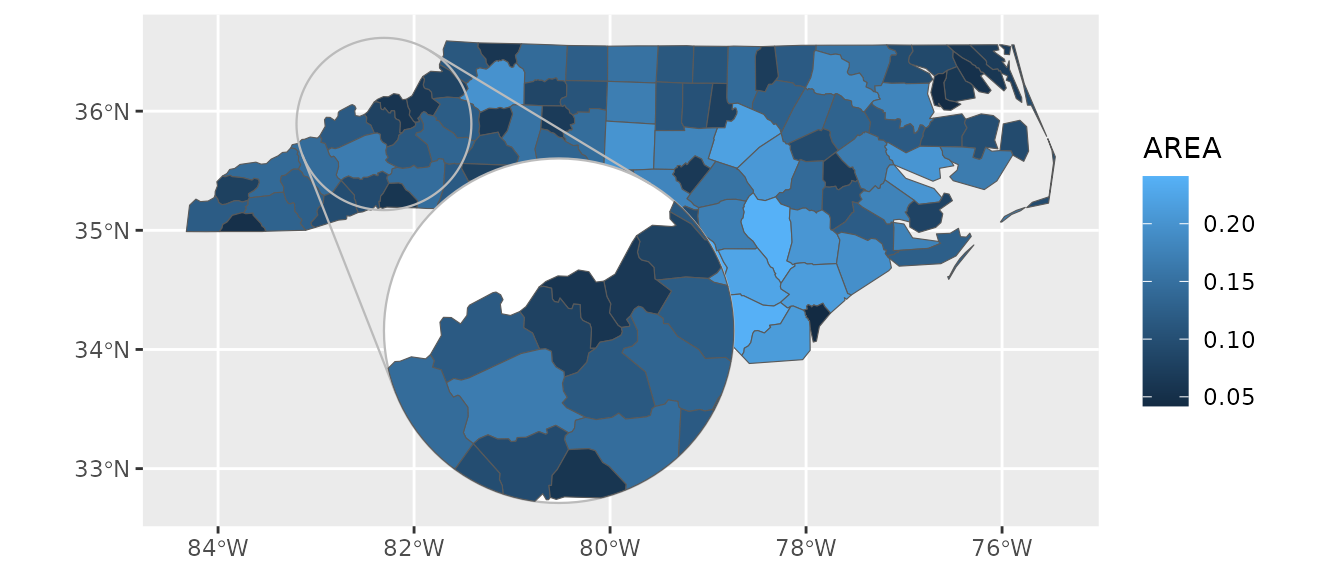
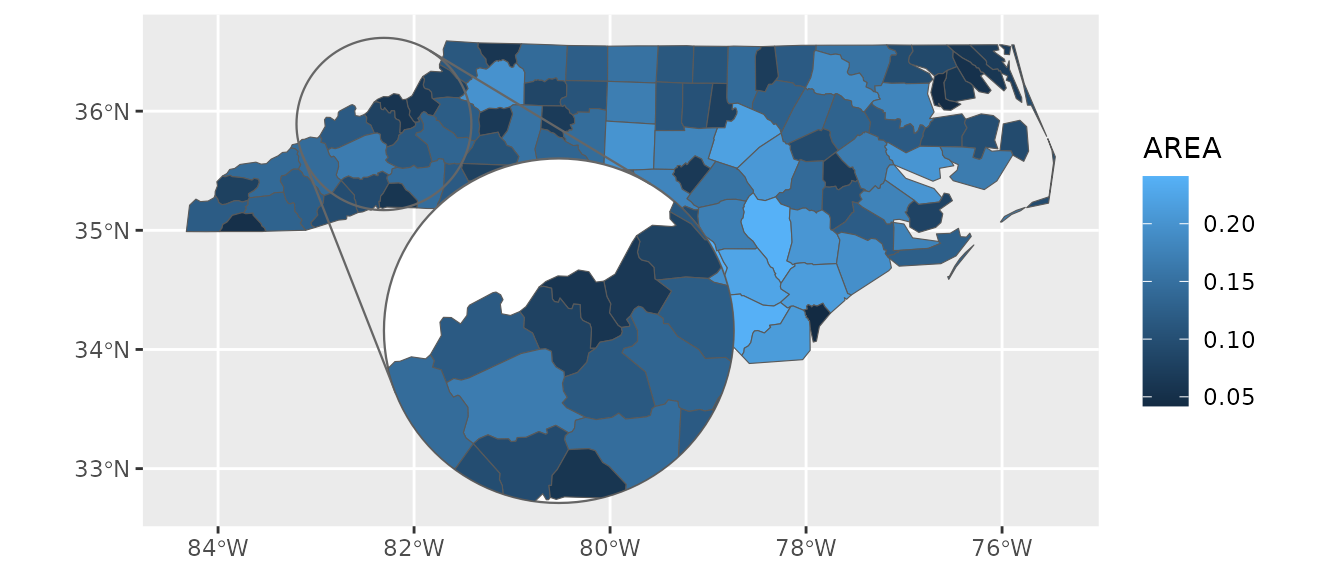
Deploying to gh-pages from @ cidm-ph/ggmapinset@5320e93cd07e585fb6fdee4869038d0298d31b93 🚀

diff --git a/reference/coord_sf_inset.html b/reference/coord_sf_inset.html
@@ -1,0 +1,96 @@
+<!DOCTYPE html>
+<!-- Generated by pkgdown: do not edit by hand --><html lang="en"><head><meta http-equiv="Content-Type" content="text/html; charset=UTF-8"><meta charset="utf-8"><meta http-equiv="X-UA-Compatible" content="IE=edge"><meta name="viewport" content="width=device-width, initial-scale=1, shrink-to-fit=no"><meta name="description" content="This allows a default inset configuration to be provided to avoid having to
+repeat it for each layer. Any layer that is inset-aware can use this as the
+default configuration if none is specifically provided to that layer."><title>Specify an inset configuration for the whole plot — coord_sf_inset • ggmapinset</title><script src="../deps/jquery-3.6.0/jquery-3.6.0.min.js"></script><meta name="viewport" content="width=device-width, initial-scale=1, shrink-to-fit=no"><link href="../deps/bootstrap-5.2.2/bootstrap.min.css" rel="stylesheet"><script src="../deps/bootstrap-5.2.2/bootstrap.bundle.min.js"></script><!-- Font Awesome icons --><link rel="stylesheet" href="https://cdnjs.cloudflare.com/ajax/libs/font-awesome/5.12.1/css/all.min.css" integrity="sha256-mmgLkCYLUQbXn0B1SRqzHar6dCnv9oZFPEC1g1cwlkk=" crossorigin="anonymous"><link rel="stylesheet" href="https://cdnjs.cloudflare.com/ajax/libs/font-awesome/5.12.1/css/v4-shims.min.css" integrity="sha256-wZjR52fzng1pJHwx4aV2AO3yyTOXrcDW7jBpJtTwVxw=" crossorigin="anonymous"><!-- bootstrap-toc --><script src="https://cdn.jsdelivr.net/gh/afeld/bootstrap-toc@v1.0.1/dist/bootstrap-toc.min.js" integrity="sha256-4veVQbu7//Lk5TSmc7YV48MxtMy98e26cf5MrgZYnwo=" crossorigin="anonymous"></script><!-- headroom.js --><script src="https://cdnjs.cloudflare.com/ajax/libs/headroom/0.11.0/headroom.min.js" integrity="sha256-AsUX4SJE1+yuDu5+mAVzJbuYNPHj/WroHuZ8Ir/CkE0=" crossorigin="anonymous"></script><script src="https://cdnjs.cloudflare.com/ajax/libs/headroom/0.11.0/jQuery.headroom.min.js" integrity="sha256-ZX/yNShbjqsohH1k95liqY9Gd8uOiE1S4vZc+9KQ1K4=" crossorigin="anonymous"></script><!-- clipboard.js --><script src="https://cdnjs.cloudflare.com/ajax/libs/clipboard.js/2.0.6/clipboard.min.js" integrity="sha256-inc5kl9MA1hkeYUt+EC3BhlIgyp/2jDIyBLS6k3UxPI=" crossorigin="anonymous"></script><!-- search --><script src="https://cdnjs.cloudflare.com/ajax/libs/fuse.js/6.4.6/fuse.js" integrity="sha512-zv6Ywkjyktsohkbp9bb45V6tEMoWhzFzXis+LrMehmJZZSys19Yxf1dopHx7WzIKxr5tK2dVcYmaCk2uqdjF4A==" crossorigin="anonymous"></script><script src="https://cdnjs.cloudflare.com/ajax/libs/autocomplete.js/0.38.0/autocomplete.jquery.min.js" integrity="sha512-GU9ayf+66Xx2TmpxqJpliWbT5PiGYxpaG8rfnBEk1LL8l1KGkRShhngwdXK1UgqhAzWpZHSiYPc09/NwDQIGyg==" crossorigin="anonymous"></script><script src="https://cdnjs.cloudflare.com/ajax/libs/mark.js/8.11.1/mark.min.js" integrity="sha512-5CYOlHXGh6QpOFA/TeTylKLWfB3ftPsde7AnmhuitiTX4K5SqCLBeKro6sPS8ilsz1Q4NRx3v8Ko2IBiszzdww==" crossorigin="anonymous"></script><!-- pkgdown --><script src="../pkgdown.js"></script><meta property="og:title" content="Specify an inset configuration for the whole plot — coord_sf_inset"><meta property="og:description" content="This allows a default inset configuration to be provided to avoid having to
+repeat it for each layer. Any layer that is inset-aware can use this as the
+default configuration if none is specifically provided to that layer."><!-- mathjax --><script src="https://cdnjs.cloudflare.com/ajax/libs/mathjax/2.7.5/MathJax.js" integrity="sha256-nvJJv9wWKEm88qvoQl9ekL2J+k/RWIsaSScxxlsrv8k=" crossorigin="anonymous"></script><script src="https://cdnjs.cloudflare.com/ajax/libs/mathjax/2.7.5/config/TeX-AMS-MML_HTMLorMML.js" integrity="sha256-84DKXVJXs0/F8OTMzX4UR909+jtl4G7SPypPavF+GfA=" crossorigin="anonymous"></script><!--[if lt IE 9]>
+<script src="https://oss.maxcdn.com/html5shiv/3.7.3/html5shiv.min.js"></script>
+<script src="https://oss.maxcdn.com/respond/1.4.2/respond.min.js"></script>
+<![endif]--></head><body>
+    <a href="#main" class="visually-hidden-focusable">Skip to contents</a>
+    
+
+    <nav class="navbar fixed-top navbar-light navbar-expand-lg bg-light"><div class="container">
+    
+    <a class="navbar-brand me-2" href="../index.html">ggmapinset</a>
+
+    <small class="nav-text text-muted me-auto" data-bs-toggle="tooltip" data-bs-placement="bottom" title="">0.2.3.9000</small>
+
+    
+    <button class="navbar-toggler" type="button" data-bs-toggle="collapse" data-bs-target="#navbar" aria-controls="navbar" aria-expanded="false" aria-label="Toggle navigation">
+      <span class="navbar-toggler-icon"></span>
+    </button>
+
+    <div id="navbar" class="collapse navbar-collapse ms-3">
+      <ul class="navbar-nav me-auto"><li class="nav-item">
+  <a class="nav-link" href="../articles/ggmapinset.html">Get started</a>
+</li>
+<li class="active nav-item">
+  <a class="nav-link" href="../reference/index.html">Reference</a>
+</li>
+<li class="nav-item">
+  <a class="nav-link" href="../news/index.html">Changelog</a>
+</li>
+      </ul><form class="form-inline my-2 my-lg-0" role="search">
+        <input type="search" class="form-control me-sm-2" aria-label="Toggle navigation" name="search-input" data-search-index="../search.json" id="search-input" placeholder="Search for" autocomplete="off"></form>
+
+      <ul class="navbar-nav"><li class="nav-item">
+  <a class="external-link nav-link" href="https://github.com/cidm-ph/ggmapinset/" aria-label="github">
+    <span class="fab fa fab fa-github fa-lg"></span>
+     
+  </a>
+</li>
+      </ul></div>
+
+    
+  </div>
+</nav><div class="container template-reference-topic">
+<div class="row">
+  <main id="main" class="col-md-9"><div class="page-header">
+      <img src="" class="logo" alt=""><h1>Specify an inset configuration for the whole plot</h1>
+      <small class="dont-index">Source: <a href="https://github.com/cidm-ph/ggmapinset/blob/HEAD/R/coord_sf_inset.R" class="external-link"><code>R/coord_sf_inset.R</code></a></small>
+      <div class="d-none name"><code>coord_sf_inset.Rd</code></div>
+    </div>
+
+    <div class="ref-description section level2">
+    <p>This allows a default inset configuration to be provided to avoid having to
+repeat it for each layer. Any layer that is inset-aware can use this as the
+default configuration if none is specifically provided to that layer.</p>
+    </div>
+
+    <div class="section level2">
+    <h2 id="ref-usage">Usage<a class="anchor" aria-label="anchor" href="#ref-usage"></a></h2>
+    <div class="sourceCode"><pre class="sourceCode r"><code><span><span class="fu">coord_sf_inset</span><span class="op">(</span><span class="va">inset</span>, <span class="va">...</span><span class="op">)</span></span></code></pre></div>
+    </div>
+
+    <div class="section level2">
+    <h2 id="arguments">Arguments<a class="anchor" aria-label="anchor" href="#arguments"></a></h2>
+    <dl><dt>inset</dt>
+<dd><p>Inset configuration; see <code><a href="configure_inset.html">configure_inset()</a></code>.</p></dd>
+
+
+<dt>...</dt>
+<dd><p>Arguments passed to <code><a href="https://ggplot2.tidyverse.org/reference/ggsf.html" class="external-link">ggplot2::coord_sf()</a></code></p></dd>
+
+</dl></div>
+
+  </main><aside class="col-md-3"><nav id="toc"><h2>On this page</h2>
+    </nav></aside></div>
+
+
+    <footer><div class="pkgdown-footer-left">
+  <p></p><p>Developed by Carl Suster.</p>
+</div>
+
+<div class="pkgdown-footer-right">
+  <p></p><p>Site built with <a href="https://pkgdown.r-lib.org/" class="external-link">pkgdown</a> 2.0.7.</p>
+</div>
+
+    </footer></div>
+
+  
+
+  
+
+  </body></html>
+

diff --git a/reference/geom_inset_frame.html b/reference/geom_inset_frame.html
@@ -62,6 +62,9 @@
 <span>  <span class="va">...</span>,</span>
 <span>  inset <span class="op">=</span> <span class="cn">NULL</span>,</span>
 <span>  na.rm <span class="op">=</span> <span class="cn">FALSE</span>,</span>
+<span>  source.params <span class="op">=</span> <span class="fu"><a href="https://rdrr.io/r/base/list.html" class="external-link">list</a></span><span class="op">(</span><span class="op">)</span>,</span>
+<span>  target.params <span class="op">=</span> <span class="fu"><a href="https://rdrr.io/r/base/list.html" class="external-link">list</a></span><span class="op">(</span><span class="op">)</span>,</span>
+<span>  lines.params <span class="op">=</span> <span class="fu"><a href="https://rdrr.io/r/base/list.html" class="external-link">list</a></span><span class="op">(</span><span class="op">)</span>,</span>
 <span>  show.legend <span class="op">=</span> <span class="cn">NA</span>,</span>
 <span>  inherit.aes <span class="op">=</span> <span class="cn">FALSE</span></span>
 <span><span class="op">)</span></span></code></pre></div>
@@ -76,6 +79,12 @@
 <dt>inset</dt>
 <dd><p>Inset configuration; see <code><a href="configure_inset.html">configure_inset()</a></code>.</p></dd>
 
+
+<dt>source.params, target.params, lines.params</dt>
+<dd><p>Override the aesthetics of the
+inset source, target, and lines respectively. The value should be a list
+named by the aesthetics, and the values should be scalars of length one.</p></dd>
+
 </dl></div>
     <div class="section level2">
     <h2 id="value">Value<a class="anchor" aria-label="anchor" href="#value"></a></h2>
@@ -84,14 +93,12 @@
 <p>A ggplot layer holding the inset frame.</p>
     </div>
     <div class="section level2">
-    <h2 id="controlling-aesthetics">Controlling aesthetics<a class="anchor" aria-label="anchor" href="#controlling-aesthetics"></a></h2>
+    <h2 id="limitation">Limitation<a class="anchor" aria-label="anchor" href="#limitation"></a></h2>
     
 
-<p>Aesthetic mappings or parameters can be provided. They can be scalars, or
-vectors of length 4 (times the number of panels when faceting) corresponding
-in order to the source circle, target circle, then the two line segments
-connecting them, respectively. Note that the connecting lines might not be
-drawn if the inset and original circle overlap, which will affect the count.</p>
+<p>Currently the inset configuration must be passed specifically to this layer
+and the frame will be built at call time instead of when the rest of the plot
+is built.</p>
     </div>
 
     <div class="section level2">
@@ -99,6 +106,7 @@ drawn if the inset and original circle overlap, which will affect the count.</p>
     <div class="sourceCode"><pre class="sourceCode r"><code><span class="r-in"><span><span class="kw"><a href="https://rdrr.io/r/base/library.html" class="external-link">library</a></span><span class="op">(</span><span class="va"><a href="https://r-spatial.github.io/sf/" class="external-link">sf</a></span><span class="op">)</span></span></span>
 <span class="r-in"><span><span class="kw"><a href="https://rdrr.io/r/base/library.html" class="external-link">library</a></span><span class="op">(</span><span class="va"><a href="https://ggplot2.tidyverse.org" class="external-link">ggplot2</a></span><span class="op">)</span></span></span>
 <span class="r-in"><span></span></span>
+<span class="r-in"><span><span class="va">nc</span> <span class="op">&lt;-</span> <span class="fu">sf</span><span class="fu">::</span><span class="fu"><a href="https://r-spatial.github.io/sf/reference/st_read.html" class="external-link">st_read</a></span><span class="op">(</span><span class="fu"><a href="https://rdrr.io/r/base/system.file.html" class="external-link">system.file</a></span><span class="op">(</span><span class="st">"shape/nc.shp"</span>, package <span class="op">=</span> <span class="st">"sf"</span><span class="op">)</span>, quiet <span class="op">=</span> <span class="cn">TRUE</span><span class="op">)</span></span></span>
 <span class="r-in"><span><span class="va">cfg</span> <span class="op">&lt;-</span> <span class="fu"><a href="configure_inset.html">configure_inset</a></span><span class="op">(</span></span></span>
 <span class="r-in"><span>  centre <span class="op">=</span> <span class="fu"><a href="https://r-spatial.github.io/sf/reference/sfc.html" class="external-link">st_sfc</a></span><span class="op">(</span><span class="fu"><a href="https://r-spatial.github.io/sf/reference/st.html" class="external-link">st_point</a></span><span class="op">(</span><span class="fu"><a href="https://rdrr.io/r/base/c.html" class="external-link">c</a></span><span class="op">(</span><span class="op">-</span><span class="fl">82</span>, <span class="fl">35</span><span class="op">)</span><span class="op">)</span>, crs <span class="op">=</span> <span class="fl">4326</span><span class="op">)</span>,</span></span>
 <span class="r-in"><span>  scale <span class="op">=</span> <span class="fl">2</span>,</span></span>
@@ -106,7 +114,7 @@ drawn if the inset and original circle overlap, which will affect the count.</p>
 <span class="r-in"><span>  radius <span class="op">=</span> <span class="fl">50</span>,</span></span>
 <span class="r-in"><span>  units <span class="op">=</span> <span class="st">"mi"</span><span class="op">)</span></span></span>
 <span class="r-in"><span></span></span>
-<span class="r-in"><span><span class="fu"><a href="https://ggplot2.tidyverse.org/reference/ggplot.html" class="external-link">ggplot</a></span><span class="op">(</span><span class="op">)</span> <span class="op">+</span> <span class="fu">geom_inset_frame</span><span class="op">(</span>inset <span class="op">=</span> <span class="va">cfg</span><span class="op">)</span> <span class="op">+</span> <span class="fu"><a href="https://ggplot2.tidyverse.org/reference/ggsf.html" class="external-link">coord_sf</a></span><span class="op">(</span><span class="op">)</span></span></span>
+<span class="r-in"><span><span class="fu"><a href="https://ggplot2.tidyverse.org/reference/ggplot.html" class="external-link">ggplot</a></span><span class="op">(</span><span class="op">)</span> <span class="op">+</span> <span class="fu">geom_inset_frame</span><span class="op">(</span>inset <span class="op">=</span> <span class="va">cfg</span>, data <span class="op">=</span> <span class="va">nc</span><span class="op">)</span></span></span>
 <span class="r-plt img"><img src="geom_inset_frame-1.png" alt="" width="700" height="433"></span>
 </code></pre></div>
     </div>

diff --git a/articles/ggmapinset.html b/articles/ggmapinset.html
@@ -115,23 +115,21 @@ use the normal <code><a href="https://ggplot2.tidyverse.org/reference/ggsf.html"
 <div class="section level2">
 <h2 id="inset-frame-backgrounds">Inset frame backgrounds<a class="anchor" aria-label="anchor" href="#inset-frame-backgrounds"></a>
 </h2>
-<p>If you’d like to add a background to the inset frame (perhaps because
-it overlaps with part of the map), this can be done with the normal
-aesthetics. The frame is composed of the two circles then the two lines
-connecting them, so we want <code>fill = c(NA, "white", NA, NA)</code>
-to fill just the large circle. Note that under some circumstances the
-frame data will have different dimensions, due to facets (the frame is
-repeated for each facet) or when the two circles are nested (in which
-case the lines are not drawn).</p>
-<p>We want the filled frame to sit in between the base map and the inset
-layers.</p>
+<p>By default, the inset frame is transparent, although often it makes
+sense to add a solid background so that the inset is distinguishable
+from any overlapping part of the base map. The aesthetics of the two
+parts of the frame and the burst lines connecting them can be controlled
+separately.</p>
+<p>Note that when the background is filled, we need to specify the base
+and inset maps in separate layers so that the frame can slip in between
+them.</p>
 <div class="sourceCode" id="cb3"><pre class="downlit sourceCode r">
 <code class="sourceCode R"><span><span class="va">cfg</span> <span class="op">&lt;-</span> <span class="fu"><a href="../reference/configure_inset.html">configure_inset</a></span><span class="op">(</span>centre <span class="op">=</span> <span class="fu"><a href="https://r-spatial.github.io/sf/reference/geos_unary.html" class="external-link">st_centroid</a></span><span class="op">(</span><span class="fu"><a href="https://r-spatial.github.io/sf/reference/st_geometry.html" class="external-link">st_geometry</a></span><span class="op">(</span><span class="va">nc</span><span class="op">)</span><span class="op">[</span><span class="va">nc</span><span class="op">$</span><span class="va">NAME</span> <span class="op">==</span> <span class="st">"Yancey"</span><span class="op">]</span><span class="op">)</span>,</span>
 <span>                       scale <span class="op">=</span> <span class="fl">2</span>, translation <span class="op">=</span> <span class="fu"><a href="https://rdrr.io/r/base/c.html" class="external-link">c</a></span><span class="op">(</span><span class="fl">100</span>, <span class="op">-</span><span class="fl">120</span><span class="op">)</span>, radius <span class="op">=</span> <span class="fl">50</span>, units <span class="op">=</span> <span class="st">"mi"</span><span class="op">)</span></span>
 <span></span>
 <span><span class="fu"><a href="https://ggplot2.tidyverse.org/reference/ggplot.html" class="external-link">ggplot</a></span><span class="op">(</span><span class="va">nc</span><span class="op">)</span> <span class="op">+</span></span>
 <span>  <span class="fu"><a href="https://ggplot2.tidyverse.org/reference/ggsf.html" class="external-link">geom_sf</a></span><span class="op">(</span><span class="fu"><a href="https://ggplot2.tidyverse.org/reference/aes.html" class="external-link">aes</a></span><span class="op">(</span>fill <span class="op">=</span> <span class="va">AREA</span><span class="op">)</span><span class="op">)</span> <span class="op">+</span></span>
-<span>  <span class="fu"><a href="../reference/geom_inset_frame.html">geom_inset_frame</a></span><span class="op">(</span>inset <span class="op">=</span> <span class="va">cfg</span>, fill <span class="op">=</span> <span class="fu"><a href="https://rdrr.io/r/base/c.html" class="external-link">c</a></span><span class="op">(</span><span class="cn">NA</span>, <span class="st">"white"</span>, <span class="cn">NA</span>, <span class="cn">NA</span><span class="op">)</span><span class="op">)</span> <span class="op">+</span></span>
+<span>  <span class="fu"><a href="../reference/geom_inset_frame.html">geom_inset_frame</a></span><span class="op">(</span>inset <span class="op">=</span> <span class="va">cfg</span>, target.params <span class="op">=</span> <span class="fu"><a href="https://rdrr.io/r/base/list.html" class="external-link">list</a></span><span class="op">(</span>fill <span class="op">=</span> <span class="st">"white"</span><span class="op">)</span><span class="op">)</span> <span class="op">+</span></span>
 <span>  <span class="fu"><a href="../reference/geom_sf_inset.html">geom_sf_inset</a></span><span class="op">(</span><span class="fu"><a href="https://ggplot2.tidyverse.org/reference/aes.html" class="external-link">aes</a></span><span class="op">(</span>fill <span class="op">=</span> <span class="va">AREA</span><span class="op">)</span>, inset <span class="op">=</span> <span class="va">cfg</span>, map_base <span class="op">=</span> <span class="st">"none"</span><span class="op">)</span> <span class="op">+</span></span>
 <span>  <span class="fu"><a href="https://ggplot2.tidyverse.org/reference/ggsf.html" class="external-link">coord_sf</a></span><span class="op">(</span><span class="op">)</span></span></code></pre></div>
 <p><img src="ggmapinset_files/figure-html/frame_fill-1.png" width="672"></p>

diff --git a/reference/geom_sf_inset.html b/reference/geom_sf_inset.html
@@ -76,8 +76,8 @@ around the inset that connects it to the main map.</p>
 <span>  position <span class="op">=</span> <span class="st">"identity"</span>,</span>
 <span>  <span class="va">...</span>,</span>
 <span>  inset <span class="op">=</span> <span class="cn">NULL</span>,</span>
-<span>  map_base <span class="op">=</span> <span class="st">"normal"</span>,</span>
-<span>  map_inset <span class="op">=</span> <span class="st">"auto"</span>,</span>
+<span>  map_base <span class="op">=</span> <span class="fu"><a href="https://rdrr.io/r/base/c.html" class="external-link">c</a></span><span class="op">(</span><span class="st">"normal"</span>, <span class="st">"clip"</span>, <span class="st">"none"</span><span class="op">)</span>,</span>
+<span>  map_inset <span class="op">=</span> <span class="fu"><a href="https://rdrr.io/r/base/c.html" class="external-link">c</a></span><span class="op">(</span><span class="st">"auto"</span>, <span class="st">"normal"</span>, <span class="st">"none"</span><span class="op">)</span>,</span>
 <span>  na.rm <span class="op">=</span> <span class="cn">TRUE</span>,</span>
 <span>  show.legend <span class="op">=</span> <span class="cn">NA</span>,</span>
 <span>  inherit.aes <span class="op">=</span> <span class="cn">TRUE</span></span>
@@ -148,8 +148,7 @@ using the same aesthetic mapping and params:</p>
 <span class="r-in"><span></span></span>
 <span class="r-in"><span><span class="fu"><a href="https://ggplot2.tidyverse.org/reference/ggplot.html" class="external-link">ggplot</a></span><span class="op">(</span><span class="va">nc</span><span class="op">)</span> <span class="op">+</span></span></span>
 <span class="r-in"><span>  <span class="fu">geom_sf_inset</span><span class="op">(</span><span class="fu"><a href="https://ggplot2.tidyverse.org/reference/aes.html" class="external-link">aes</a></span><span class="op">(</span>fill <span class="op">=</span> <span class="va">AREA</span><span class="op">)</span>, inset <span class="op">=</span> <span class="va">cfg</span><span class="op">)</span> <span class="op">+</span></span></span>
-<span class="r-in"><span>  <span class="fu"><a href="geom_inset_frame.html">geom_inset_frame</a></span><span class="op">(</span>inset <span class="op">=</span> <span class="va">cfg</span><span class="op">)</span> <span class="op">+</span></span></span>
-<span class="r-in"><span>  <span class="fu"><a href="https://ggplot2.tidyverse.org/reference/ggsf.html" class="external-link">coord_sf</a></span><span class="op">(</span><span class="op">)</span></span></span>
+<span class="r-in"><span>  <span class="fu"><a href="geom_inset_frame.html">geom_inset_frame</a></span><span class="op">(</span>inset <span class="op">=</span> <span class="va">cfg</span><span class="op">)</span></span></span>
 <span class="r-plt img"><img src="geom_sf_inset-1.png" alt="" width="700" height="433"></span>
 </code></pre></div>
     </div>

diff --git a/news/index.html b/news/index.html
@@ -51,6 +51,8 @@
 <h2 class="pkg-version" data-toc-text="0.3.0" id="ggmapinset-030">ggmapinset 0.3.0<a class="anchor" aria-label="anchor" href="#ggmapinset-030"></a></h2>
 <ul><li>Added <code><a href="../reference/transform_to_inset.html">transform_to_inset()</a></code> helper for applying the inset transformation to arbitrary geometries.</li>
 <li>Replaced the confusing <code>inset_clip</code> and <code>inset_copy</code> parameters of <code><a href="../reference/geom_sf_inset.html">geom_sf_inset()</a></code> with the new <code>map_base</code> and <code>map_inset</code> parameters.</li>
+<li>Inset frame aesthetics can now be specified consistently.</li>
+<li>A default inset configuration can be passed to <code><a href="../reference/coord_sf_inset.html">coord_sf_inset()</a></code> to avoid repeating it for every layer.</li>
 </ul></div>
     <div class="section level2">
 <h2 class="pkg-version" data-toc-text="0.2.3" id="ggmapinset-023">ggmapinset 0.2.3<a class="anchor" aria-label="anchor" href="#ggmapinset-023"></a></h2><p class="text-muted">CRAN release: 2023-02-21</p>

diff --git a/reference/build_sf_inset_layers.html b/reference/build_sf_inset_layers.html
@@ -69,8 +69,8 @@ parameters to control the inset.</p>
 <span>  <span class="va">inherit.aes</span>,</span>
 <span>  <span class="va">params</span>,</span>
 <span>  <span class="va">inset</span>,</span>
-<span>  <span class="va">map_base</span>,</span>
-<span>  <span class="va">map_inset</span></span>
+<span>  map_base <span class="op">=</span> <span class="st">"normal"</span>,</span>
+<span>  map_inset <span class="op">=</span> <span class="st">"auto"</span></span>
 <span><span class="op">)</span></span></code></pre></div>
     </div>
 

diff --git a/reference/index.html b/reference/index.html
@@ -69,6 +69,11 @@
         <dd>Configure transformations underpinning a map inset</dd>
       </dl><dl><dt>
           
+          <code><a href="coord_sf_inset.html">coord_sf_inset()</a></code> 
+        </dt>
+        <dd>Specify an inset configuration for the whole plot</dd>
+      </dl><dl><dt>
+          
           <code><a href="geom_inset_frame.html">geom_inset_frame()</a></code> 
         </dt>
         <dd>Add a frame and burst lines for an inset.</dd>
